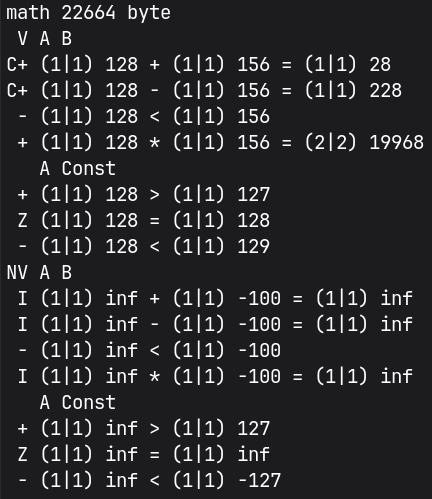
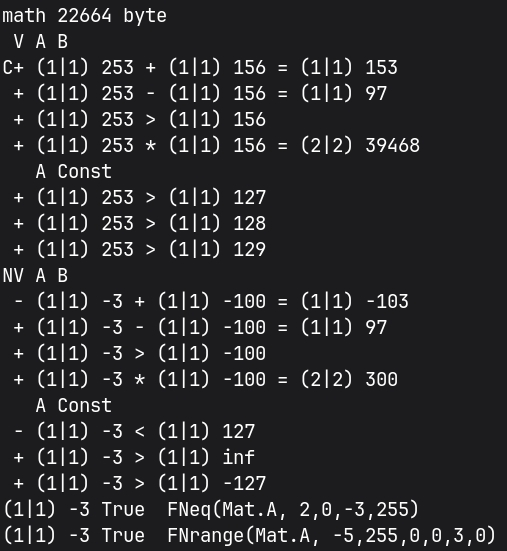
v19.0

Changed region(s): [[0.0, 0.0, 0.9931, 0.992], [0.7222, 0.511, 0.963, 0.7816], [0.8727, 0.7214, 0.963, 0.7816]]

diff --git a/math.c b/math.c
@@ -91,21 +91,22 @@ void FSUB(an r, an a, anu l, an b) { Mat.N = l; Mat.r = r; Mat.a = a; Mat.b = b;
       return; } }  Mat.C |= (Mat.j == 4); if (!Mat.V && Mat.x < Mat.l) { Mat.i = Mat.l - Mat.x;
     do *++Mat.ae = Mat.N; while(--Mat.i); return; } Mat.l = Mat.x; }
 
-void FCMP(an a, anu l, an b) { Mat.k = Mat.C; Mat.t = Mat.l;
-  Mat.C = 0; FSUB((an)Mat.S, a, l, b); if (!Mat.Nim) Mat.N -= Mat.C; else if (Mat.F == 2)
+void FCMP(an a, anu l, an b) { Mat.k = Mat.C; Mat.t = Mat.l; Mat.C = 0;
+  FSUB((an)Mat.S, a, l, b); if (!Mat.Nim) Mat.N -= Mat.C; else if (Mat.F == 2)
     Mat.N = (Mat.F = (Mat.j == 3)) ? 0:(Mat.j == 1) ? Mat.nb:(Mat.j == 2) ? ~Mat.na:~Mat.nb;
   Mat.l = Mat.t; Mat.C = Mat.k; }
 
-anu FEQ(an a, anu l, an c) { if (l--) { Mat.z = Mat.V; Mat.V = 0; Mat.e = c; Mat.u = l;
-    Mat.F = 0; while(!Mat.F) { if (Mat.u < Mat.l) break;
-      FCMP(a, Mat.l, Mat.e); Mat.e += 1 + Mat.l; if ((Mat.u -= 1 + Mat.l) == 255) break; }
-    Mat.V = Mat.z; return Mat.F; } FCcmp(a, 0); return Mat.F; }
+anu FEQ(an a, anu l, an c) { if (l--) { Mat.z = Mat.V; Mat.V = 0; Mat.e = c; Mat.u = 0;
+    while(!Mat.u && l >= Mat.l) { FCMP(a, Mat.l, Mat.e); Mat.u = Mat.F && !Mat.N; Mat.e += 1 + Mat.l;
+      if ((l -= 1 + Mat.l) == 255) break; } Mat.V = Mat.z; return Mat.u; }
+  FCcmp(a, 0); return Mat.F; }
 
 anu FRANGE(an a, anu l, an c) { if (l--) { Mat.z = Mat.V; Mat.V = 0; Mat.e = c; Mat.u = 0;
-    while(!Mat.u && l != 255) { if (l < Mat.l) { break; } FCMP(a, Mat.l, Mat.e); l -= 1 + Mat.l;
-      Mat.e += 1 + Mat.l; Mat.u = !Mat.N; if (l < Mat.l) { break; } FCMP(a, Mat.l, Mat.e);
-      l -= 1 + Mat.l; Mat.e += 1 + Mat.l; Mat.u = Mat.u && (Mat.N | Mat.F); }
-    Mat.V = Mat.z; return Mat.u; } FCcmp(a, 0); return !Mat.N; }
+    while(!Mat.u && l >= Mat.l) { FCMP(a, Mat.l, Mat.e); Mat.u = !Mat.N;
+      Mat.e += 1 + Mat.l; if ((l -= 1 + Mat.l) == 255) { break; } if (l < Mat.l) { break; }
+      FCMP(a, Mat.l, Mat.e); Mat.u = Mat.u && (Mat.N | Mat.F); Mat.e += 1 + Mat.l;
+      if ((l -= 1 + Mat.l) == 255) break; } Mat.V = Mat.z; return Mat.u; }
+  FCcmp(a, 0); return !Mat.N; }
 
 void FMUL(an r, an a, anu l, an b) { Mat.N = l; Mat.r = r; Mat.a = a; Mat.b = b;
   Mat.F = Mat.l; Mat.x = *(Mat.ae = Mat.a + Mat.l); Mat.na = (Mat.Nim && (Mat.x & 128)) ? 255:0;

diff --git a/main.c b/main.c
@@ -29,5 +29,7 @@ void Const(void) { an sb; anu l, i = 2; printf("   A Const\n"); Show('c'); sb = 
   while(i--) { if (!++(*Mat.B) && lb) { (*(Mat.B + 1))++; } Show('?'); } Mat.B = sb; lb = l; }
 void Test(void) { printf("%c%c A B\n", Mat.Nim ? 'N':' ', Mat.V ? 'V':' '); Show('+'); Show('-'); Show('?');
   Show('*'); /*Show('/');*/ Const(); }
-int main(void) { anu v = 0,a[m],b[m],e[m],r[m+m]; Faddr((As)r, (As)e, (As)a, (As)b); Fini(0,v); la = Fbvi(Mat.A, 128,0);
-  lb = Fvi(Mat.B, -100,255,255); Test(); Fset(1,v); la = Fmov(la, Mat.A); lb = Fmov(lb, Mat.B); Test(); return 0; }
+void Cmp(void) { Num(la, Mat.A); Mat.C = 0; printf("%s FNeq(Mat.A, 2,0,-3,255)\n", FNeq(Mat.A, 2,0,-3,255) ? "True ":"False");
+  Num(la, Mat.A); printf("%s FNrange(Mat.A, -5,255,0,0,3,0)\n", FNrange(Mat.A, -5,255,0,0,3,0) ? "True ":"False"); }
+int main(void) { anu v = 1,a[m],b[m],e[m],r[m+m]; Faddr((As)r, (As)e, (As)a, (As)b); Fini(0,v); la = Fbvi(Mat.A, 255,-3);
+  lb = Fvi(Mat.B, -100,255,255); Test(); Fset(1,v); la = Fmov(la, Mat.A); lb = Fmov(lb, Mat.B); Test(); Cmp(); return 0; }

diff --git a/README.md b/README.md
@@ -17,7 +17,7 @@
 P.s.: Блокировку убрали как только добавил сообщение о ней на главную страницу, длилась минут 20 как я заметил и принял меры чтоб сообщить об этом Вам. Это сообщение останется (20.09.2026 ~16.00 по местному +7) как память, так, что буду стараться вопреки не востребованности в России по данной области дабы остальной народ мог этим воспользоваться. Проанализируйте события с момента как я вернулся в эту сферу (конец января 2026 выложен Products готовый полностью затем занялся Fresh в начале февраля 2026), всё это время обновлялся код и было забавно видеть на open.net новости - даже компании серьёзные их как озарило - так, что у меня нет желания и времени следить за соблюдением GPLv3 из России, если заметите нарушение лицензии, то гарантировано взаимовыгодное сотрудничество.
 
 <div align="center">
-  <h1>Результат запуска v18.4</h1>
+  <h1>Результат запуска v19.0</h1>
   
   <picture>
     <source media="(prefers-color-scheme: dark)" srcset="Plus/psb.jpeg">
@@ -92,4 +92,3 @@ typedef struct { anu S[255],H[255],L[255],      // Задать параметр
 Распространяется под условиями Стандартной общественной лицензии GNU (GPLv3).
 
 Автор (C) 2026 А. Поздняков.
-
